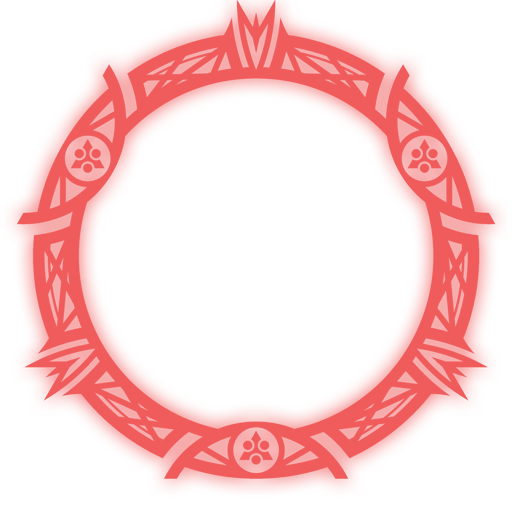
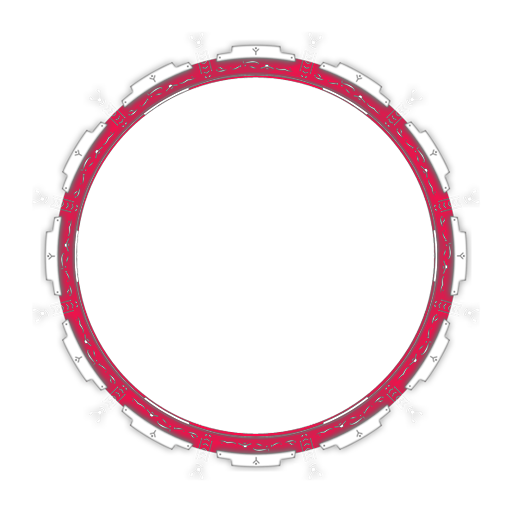
Added glsl cell glow & Changed commander outer

diff --git a/src/Endymion.js b/src/Endymion.js
@@ -23,7 +23,7 @@ import MaouCircle from "./components/MaouCircle";
 import Commander from "./components/Commander";
 // import "./components/LottieCanvas";
 import Turbulence from "./components/Turbulence";
-import RainbowV2 from "./components/RainbowBorderV2";
+// import RainbowV2 from "./components/RainbowBorderV2";
 
 // analytics
 import "./components/Analytics";
@@ -1731,7 +1731,7 @@ const disappearedEntities = new Map();
                             aWW = aNw.getUint32();
                         b2u._2CL6b81dcda3856c9e4(aNv, aWV, aWW);
 
-                        if (Settings.Endy.enableFullmap && aNv < 2) {
+                        if (/* Settings.Endy.enableFullmap &&  */aNv < 2) {
                             let index = boxSize[aNv].ids.indexOf(aWW);
                             if (index !== -1) {
                                 boxSize[aNv].ids.splice(index, 1);
@@ -1752,7 +1752,7 @@ const disappearedEntities = new Map();
                             disappearedEntities.delete(aWX);
 
                         let doit = false;
-                        if (Settings.Endy.enableFullmap) {
+                        if (/* Settings.Endy.enableFullmap */true) {
                             if (aNv < 2) {
                                 let hasId = boxSize[aNv].ids.indexOf(aWX);
                                 if (hasId !== -1) {
@@ -1813,7 +1813,7 @@ const disappearedEntities = new Map();
                             b2u.removeDisappearedEntity(aNv, aX9);
                         }
 
-                        if (Settings.Endy.enableFullmap && aNv < 2) {
+                        if (/* Settings.Endy.enableFullmap &&  */aNv < 2) {
                             let index = boxSize[aNv].ids.indexOf(aX9);
                             if (index !== -1) {
                                 boxSize[aNv].ids.splice(index, 1);
@@ -1823,7 +1823,7 @@ const disappearedEntities = new Map();
                         }
                     }
 
-                    if (Settings.Endy.enableFullmap && aNv < 2 && boxSize[aNv].xPosArray.length > 0) {
+                    if (/* Settings.Endy.enableFullmap &&  */aNv < 2 && boxSize[aNv].xPosArray.length > 0) {
                         let offset = b2u.posOffset_kamo[aNv];
                         boxSize[aNv].maxX = boxSize[aNv].xPosArray.reduce(arrayMax) - offset.xPos_kamo;
                         boxSize[aNv].maxY = boxSize[aNv].yPosArray.reduce(arrayMax) - offset.yPos_kamo;
@@ -5753,11 +5753,13 @@ const disappearedEntities = new Map();
         draw_some(aNv) {
             // draw border
             if (this._2CL1ff235ee6a538d5a(), this._2CL29139779efc59d37) {
+                const ww = window;
                 var bgP = 14142 + 2 * (this.glowDistance + this.borderWidth),
                     bgQ = bgP >> 0x1;
                 if (!Settings.Endy.enableRainbowBorder) aNv.drawImage(this.canvas_kamo, -bgQ, -bgQ, bgP, bgP);
                 // draw glow (this is a canvas not a image)
-                else if (completeFrame) aNv.drawImage(RainbowV2, -bgQ, -bgQ, bgP, bgP);
+                // else if (completeFrame) aNv.drawImage(RainbowV2, -bgQ, -bgQ, bgP, bgP);
+                else if (completeFrame) aNv.drawImage(ww.rbbFrames[ww.currentFrame], -bgQ, -bgQ, bgP, bgP);
             }
     
             aNv.strokeStyle = this._2CLf6e5846f1b211fe6;
@@ -6554,6 +6556,7 @@ const disappearedEntities = new Map();
 
                     const isMe = aNw.isMe;
                     const faded = Settings.Endy.enableDisappearFade && disappearedEntities.has(id);
+                    const inMyArea = tabId > 1 && inurArea(tabId, x, y);
 
                     if (faded) {
                         let entity = disappearedEntities.get(id);
@@ -6572,14 +6575,29 @@ const disappearedEntities = new Map();
                         currentAssistMode == "fullmap" &&
                         // tabId < 2 && !isMe // dont use tab0,1 view
                         tabId > 1 && 
-                        inurArea(
-                            tabId,
-                            x,
-                            y
-                        )
+                        inMyArea
                     ) {
                         return;
                     }
+
+                    // avoid draw deplicate 
+                    /* if (this.preCache) {
+                        if (
+                            tabId > 1 && 
+                            tabId != this.preCache.tab &&
+                            aNw._2CL8ac401cc9f1e8785 == this.preCache.name && Math.abs(this.preCache.s - s) < 10
+                        ) {
+                            this.preCache.name = aNw._2CL8ac401cc9f1e8785;
+                            this.preCache.s = s;
+                            this.preCache.tab = tabId;
+                            return;
+                        }
+                    } else {
+                        this.preCache = {};
+                    }
+                    this.preCache.name = aNw._2CL8ac401cc9f1e8785;
+                    this.preCache.s = s;
+                    this.preCache.tab = tabId; */
 
                     let drawMaou = Settings.Endy.enableMaouCircle && (!Settings.Endy.HSLOCircleForOnlyMe || Settings.Endy.HSLOCircleForOnlyMe && isMe);
                     let fixedSize = drawMaou ? 0x0 | (s * 0.9) : s;
@@ -6606,7 +6624,7 @@ const disappearedEntities = new Map();
                     let ff = 1.5;
                     if (Settings.Endy.enableParticles && s > 300) aNv.drawImage(particles.canvas, x - s * ff, y - s * ff, s * 2 * ff, s * 2 * ff);
 
-                    if (s > 300) {
+                    if (tabId == 1 && (s > 300 || isMe )) {
                         let circleSize = 2;
                         aNv.save();
                         aNv.globalCompositeOperation = "lighter";

diff --git a/src/components/RainbowBorderV5.js b/src/components/RainbowBorderV5.js
@@ -1,0 +1,78 @@
+import * as PIXI from "pixi.js";
+
+const width = 1000;
+const height = 1000;
+const app = new PIXI.Application({
+    width,
+    height,
+    transparent: false
+});
+
+const G = {
+    left: 0,
+    top: 0,
+}
+
+const RBv5 = new class {
+    constructor() {
+        this.rgbColor1 = "#ffff00"
+        this.rgbColor2 = "#ff0000"
+        this.edge = 2136;
+        this.borderWidth = 18;
+        this.container = new PIXI.Container();
+        this.main = app;
+        this.init();
+    }
+    init() {
+        const e = new Image;
+        e.crossOrigin = "anonymous"
+        e.src = "https://notsocoolisntit.yueagar.ml/pixi_resources/rainbow.png"
+        this.rgbImg = PIXI.Texture.from(e)
+        this.filter1 = new PIXI.filters.ColorMatrixFilter()
+        this.hueCounter1 = 0
+        // this.cacheRGB()
+        this.render();
+    }
+    render() {
+        const e = this.container;
+        const t = this.borderWidth >> 1;
+        this.filter1.hue(this.hueCounter1)
+        this.hueCounter1 -= 1
+        this.hueCounter1 < 0 && (this.hueCounter1 = 360);
+
+        const s = new PIXI.Sprite(this.rgbImg);
+        s.position.set(G.left - 30 * this.edge / 2 / 720 - t, G.top - 30 * this.edge / 2 / 720);
+        s.filters = [this.filter1];
+        s.width = this.edge + 60 * this.edge / 2 / 720 + 2 * t;
+        s.height = this.edge + 60 * this.edge / 2 / 720;
+        s.alpha = /* oe.borderAlpha */10 / 10;
+        for (let t = 0; t < /* oe.borderGlowStrength */1; t++) {
+            e.addChild(s);
+        }
+        // app.renderer.render(this.container);
+    }
+    cacheRGB() {
+        this.rgbCanvas = document.createElement("canvas");
+        this.rgbCtx = this.rgbCanvas.getContext("2d");
+        this.rgbCanvas.width = 700;
+        this.rgbCanvas.height = 700;
+        const e = this.rgbCtx.createLinearGradient(0, 0, 700, 700);
+        e.addColorStop(0, this.rgbColor1)
+        e.addColorStop(1, this.rgbColor2)
+        this.rgbCtx.filter = "blur(4px)"
+        this.rgbCtx.lineWidth = 15
+        this.rgbCtx.lineCap = "round"
+        this.rgbCtx.strokeStyle = e
+        this.rgbCtx.strokeRect(35 / 1.3, 35 / 1.3, 645, 645)
+        this.rgbTexture = PIXI.Texture.from(this.rgbCanvas)
+    }
+}
+
+export default RBv5;
+
+/* document.body.appendChild(app.view);
+
+app.ticker.add(() => {
+    // RBv5.render();
+    app.renderer.render(RBv5.container);
+}); */

diff --git a/src/components/RainbowBorderV2.js b/src/components/RainbowBorderV2.js
@@ -1,6 +1,7 @@
 import * as PIXI from "pixi.js";
 import RainbowShaderW from "../assets/RainbowW.glsl";
 import RainbowShaderH from "../assets/RainbowH.glsl";
+import Endy from "../settings/Endy";
 
 console.log("Rainbow Border V2");
 
@@ -34,7 +35,7 @@ particleBFilter.padding = 0;
 particleBFilter.uniforms.iResolution = [width, height];
 particleBFilter.uniforms.iTime = 0;
 
-const blurFilter = new PIXI.filters.BlurFilter(30,10,1);
+const blurFilter = new PIXI.filters.BlurFilter(30,20,1);
 
 const bufferAContainer = new PIXI.Container();
 /* bufferAContainer.filterArea = new PIXI.Rectangle(25, 24, 2086, 30);
@@ -48,6 +49,10 @@ bufferAContainer.addChild(sp1);
 const sp2 = new PIXI.Sprite(bufferA);
 sp2.filterArea = new PIXI.Rectangle(2080, 24, 30, 2086);
 sp2.filters = [particleBFilter];
+// bufferAContainer.addChild(sp2);
+sp2.anchor.x = 0.5;
+sp2.anchor.y = 0.5;
+sp2.rotation += 120;
 bufferAContainer.addChild(sp2);
 
 const mainFilter = new PIXI.Filter("", mainFragment);
@@ -63,13 +68,14 @@ let lastTime = performance.now();
 let time = 0;
 let count = 0;
 app.ticker.add(() => {
+    if (!Endy.enableRainbowBorder) return;
     const current = performance.now();
     const diff = (current - lastTime) / 1000;
     time += diff;
     lastTime = current;
     particleAFilter.uniforms.iTime = time;
     particleBFilter.uniforms.iTime = time;
-    // app.renderer.render(bufferAContainer, bufferA);
+    app.renderer.render(bufferAContainer, bufferA);
     mainFilter.uniforms.iChannel0 = bufferA;
     count++;
 });
